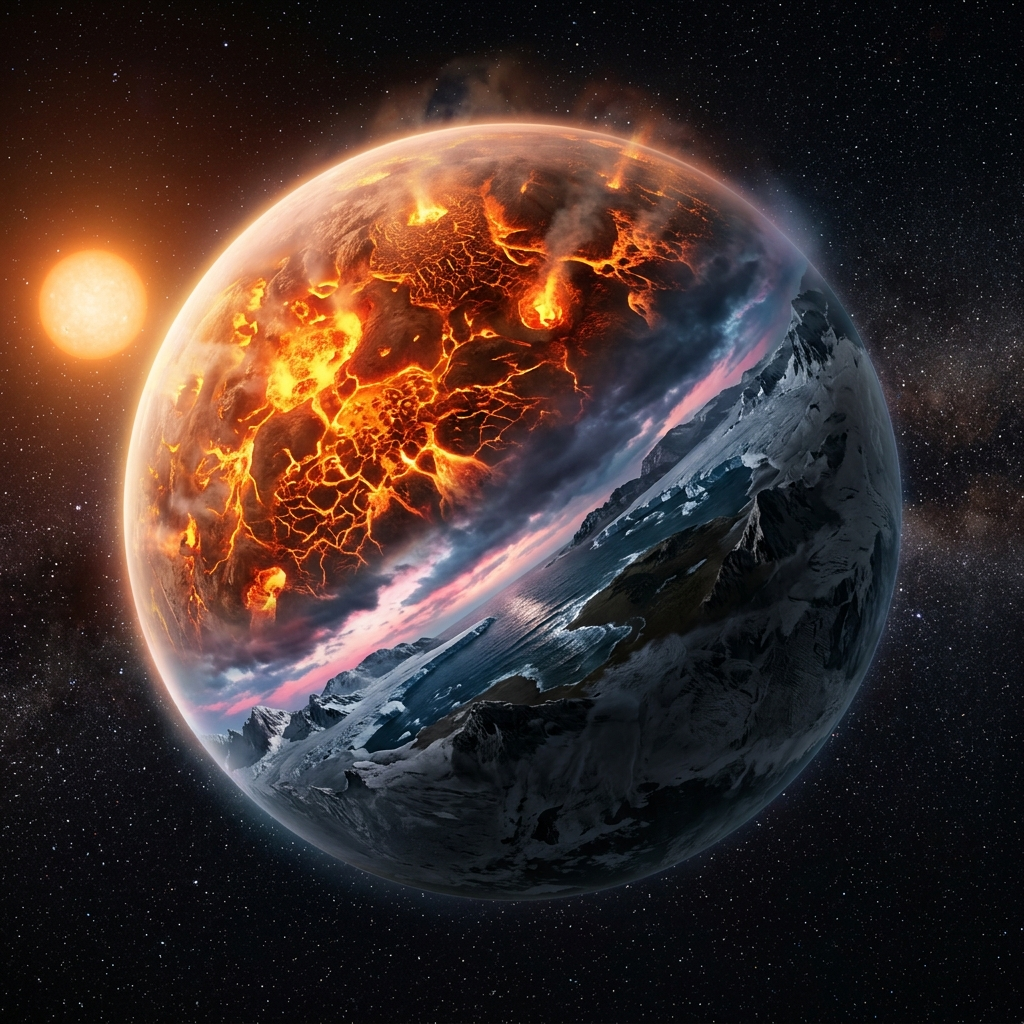
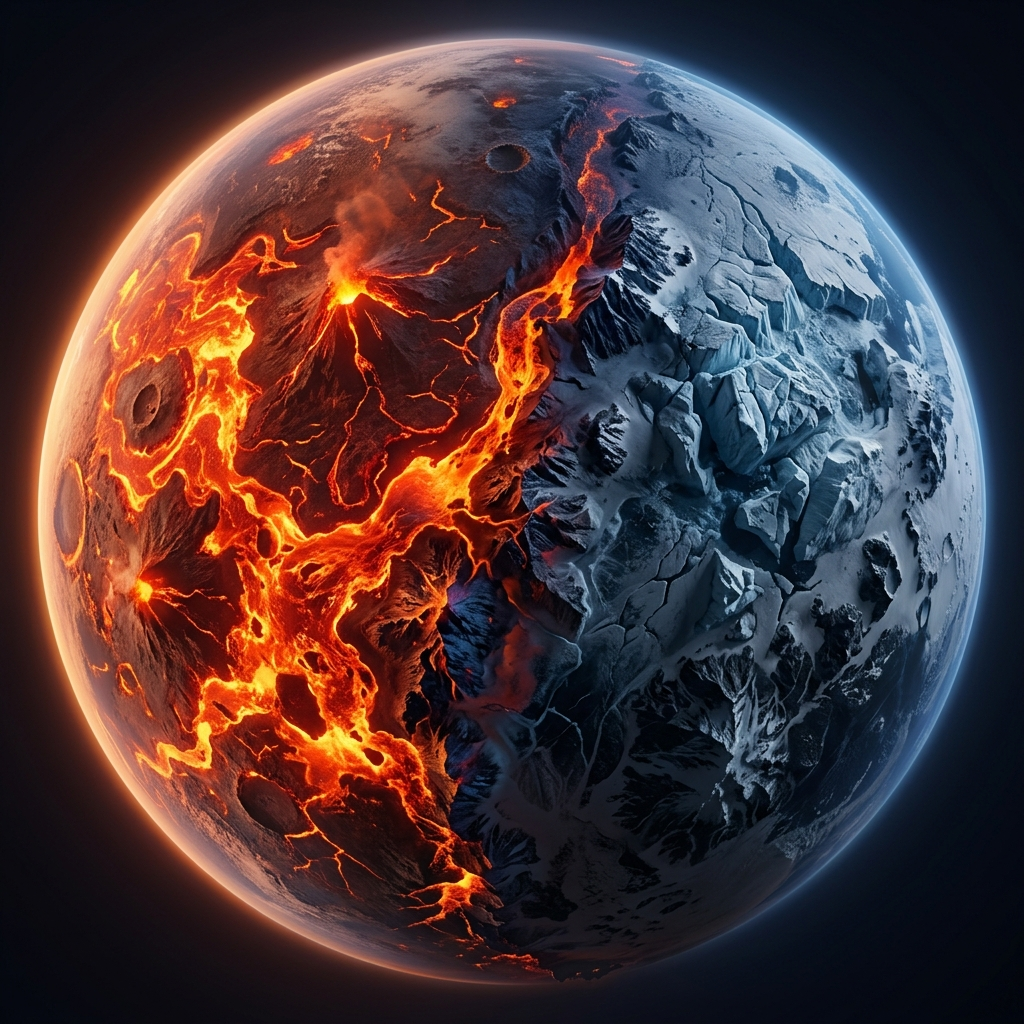
Generate and update rich textures for alien exoplanets

diff --git a/src/components/Dashboard.tsx b/src/components/Dashboard.tsx
@@ -5,6 +5,7 @@ import earthImg from '../assets/earth.png';
 import proximaImg from '../assets/proxima_b.png';
 import trappistImg from '../assets/trappist_1e.png';
 import keplerImg from '../assets/kepler_186f.png';
+import siriusImg from '../assets/sirius_planet.png';
 
 interface DashboardProps {
   distance: number;
@@ -202,7 +203,7 @@ const Dashboard: React.FC<DashboardProps> = ({
                       backgroundImage: inversionMode ? `url(${earthImg})` :
                                   target === 'proxima-b' ? `url(${proximaImg})` : 
                                   target === 'trappist-1e' ? `url(${trappistImg})` : 
-                                  target === 'sirius' ? 'url(https://upload.wikimedia.org/wikipedia/commons/thumb/c/c5/Sirius_A_and_B_artwork.jpg/320px-Sirius_A_and_B_artwork.jpg)' :
+                                  target === 'sirius' ? `url(${siriusImg})` :
                                   `url(${keplerImg})`,
                       backgroundSize: 'cover',
                       backgroundPosition: 'center',